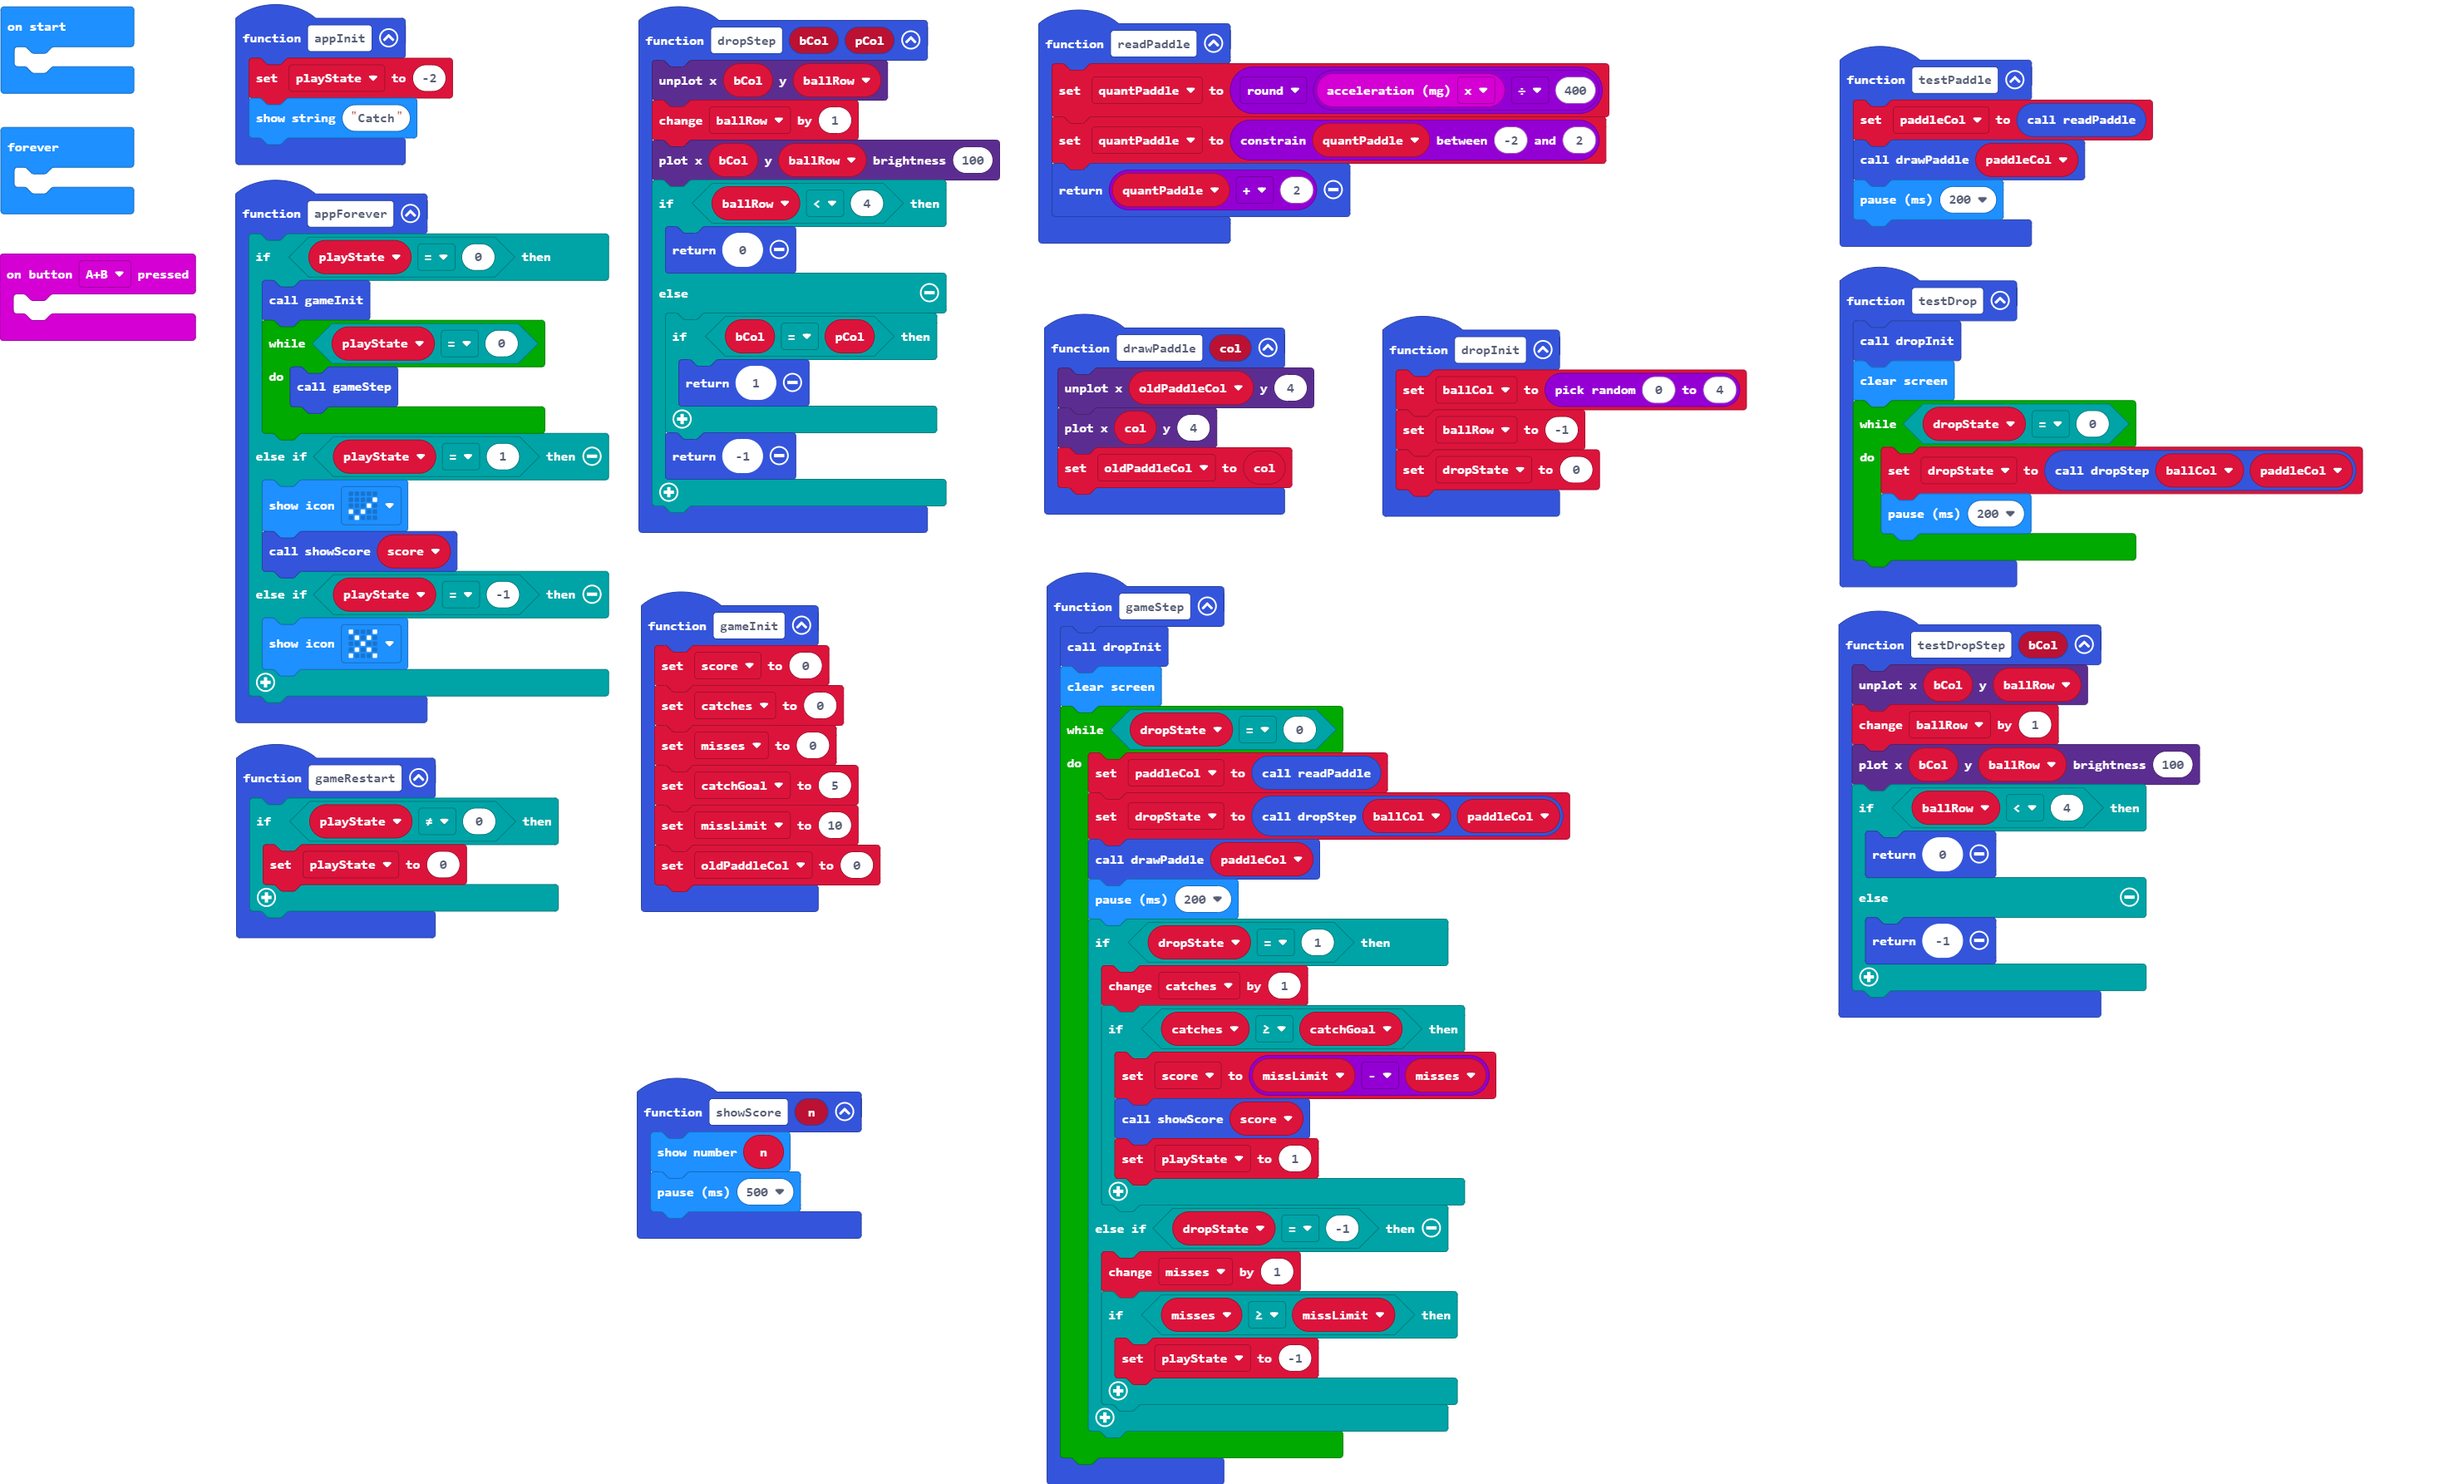
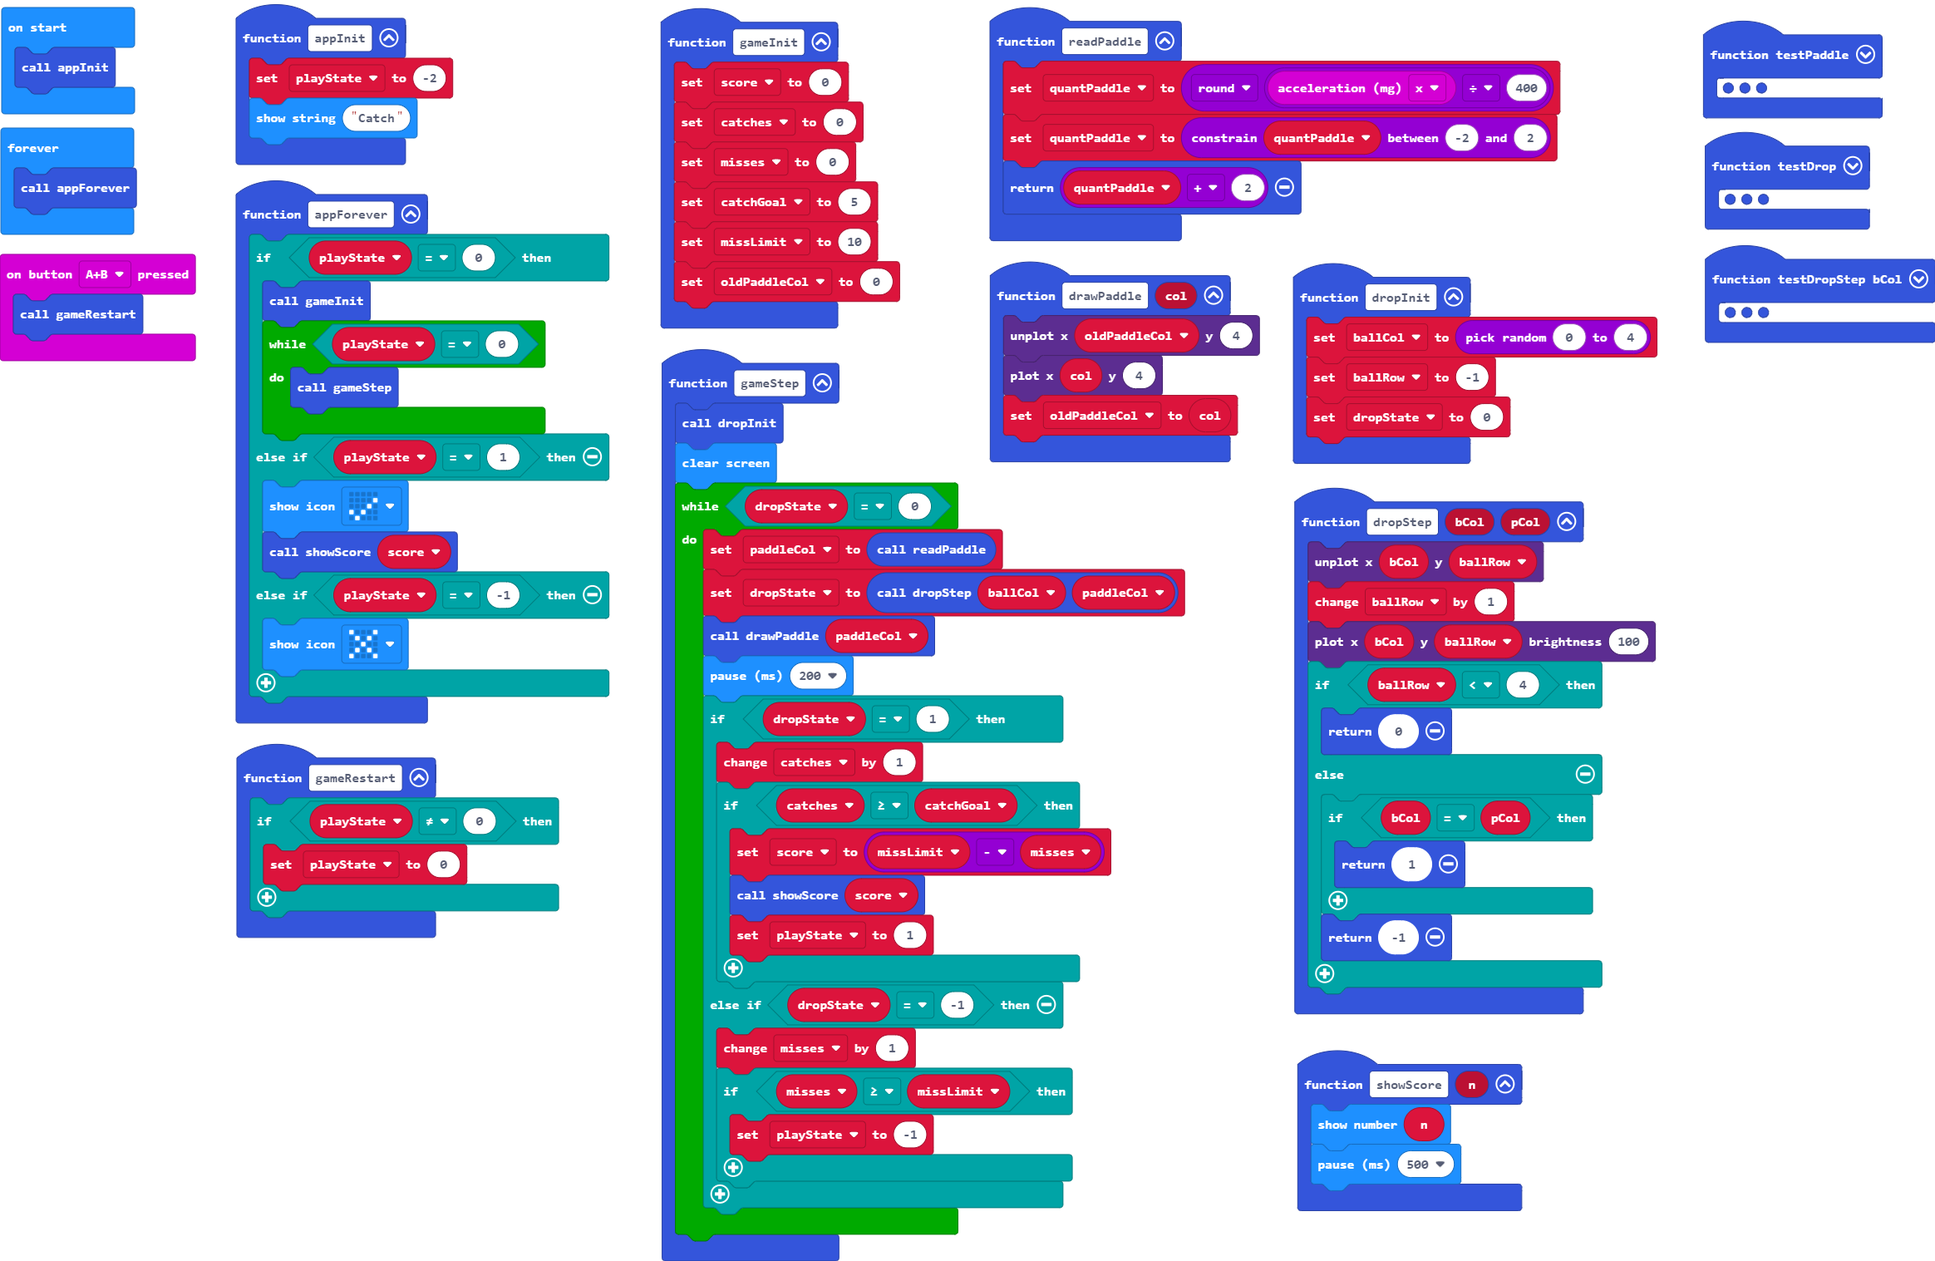
add top level back into final game, minimize test functions

diff --git a/main.ts b/main.ts
@@ -1,15 +1,3 @@
-let ballCol = 0
-let ballRow = 0
-let dropState = 0
-let oldPaddleCol = 0
-let paddleCol = 0
-let catches = 0
-let catchGoal = 0
-let score = 0
-let missLimit = 0
-let misses = 0
-let playState = 0
-let quantPaddle = 0
 function dropInit () {
     ballCol = randint(0, 4)
     ballRow = -1
@@ -79,7 +67,7 @@ function gameInit () {
     oldPaddleCol = 0
 }
 input.onButtonPressed(Button.AB, function () {
-	
+    gameRestart()
 })
 function testDropStep (bCol: number) {
     led.unplot(bCol, ballRow)
@@ -121,6 +109,19 @@ function appInit () {
     playState = -2
     basic.showString("Catch")
 }
+let quantPaddle = 0
+let playState = 0
+let misses = 0
+let missLimit = 0
+let score = 0
+let catchGoal = 0
+let catches = 0
+let paddleCol = 0
+let oldPaddleCol = 0
+let dropState = 0
+let ballRow = 0
+let ballCol = 0
+appInit()
 basic.forever(function () {
-	
+    appForever()
 })
